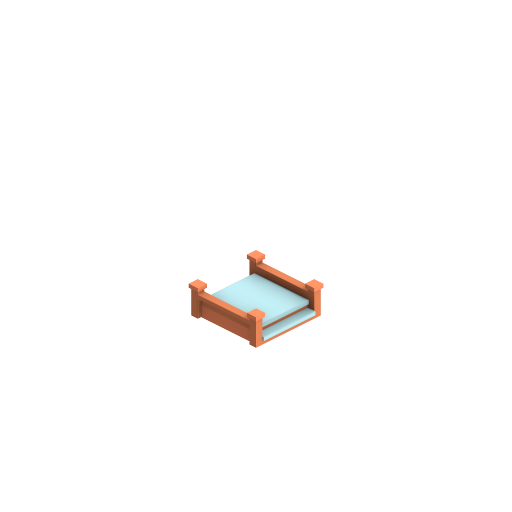
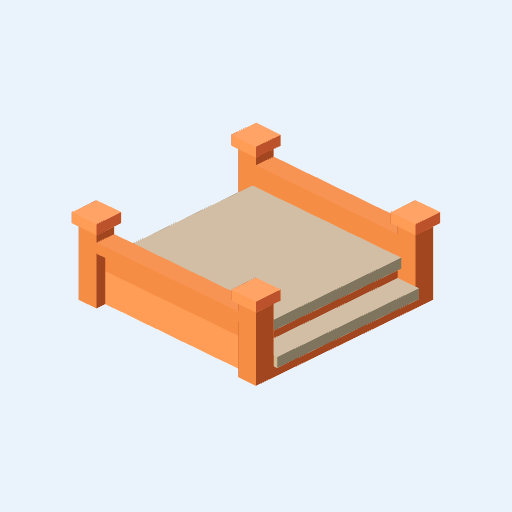
Las miniaturas las genera el motor: mismo encuadre, misma luz y la escala del derecho
Las que había NO eran renders de este proyecto: eran los previews que reparte
Kenney con cada kit. Tres kits, tres encuadres, SEIS tamaños distintos y
cuatro ni siquiera cuadradas (banco 62×82, maceta 28×85, mesa 113×95, silla
42×67), con el objeto ocupando del 3 % al 100 % del lienzo. De ahí salían dos
cosas mal:

  · la escala INVERTIDA: en la celda de 64 px la silla (0,45 m) se dibujaba
    40×64 y el árbol (5,5 m) 18×30, o sea que una silla se veía tres veces
    más grande que un árbol
  · el color no era el del mundo, porque el kit trae el turquesa original y
    el visor lo lleva a la familia del césped

Y las piezas generadas no tenían miniatura: salían como emoji. Con las diez
nuevas, iban a ser catorce.

`npm run miniaturas` las pinta con `?miniatura=<tipo>`: la MISMA escena, las
mismas luces, la misma rampa y el mismo ACES que el mundo, con cámara
ortográfica siempre desde el mismo sitio (45° de acimut, 60° de polar) y un
encuadre proporcional a la pieza pero con el margen encogiéndose — holgado
(×2,4) en lo pequeño y justo (×1,2) en lo grande. Así la casa se ve el doble
de grande que la silla en la celda (la escala se LEE) pero la silla sigue
siendo legible en 64 px, que es lo que se perdería con un encuadre
proporcional a secas: una flor de 0,8 m saldría como una mota.

41 miniaturas, UN solo tamaño (512×512). Antes: 27 en seis tamaños.

Y se va la marca `zoom` del catálogo, con su CSS: era un parche booleano
[…]

Changed region(s): [[0.125, 0.2188, 0.875, 0.75]]

diff --git a/src/lib/piezas.js b/src/lib/piezas.js
@@ -10,7 +10,13 @@
 //   c  color, índice en COLORES (solo cuenta en las piezas con `tinte`)
 //
 // Cada entrada:
-//   nombre, icono   lo que ve el jugador en la paleta (mini = miniatura PNG)
+//   nombre, icono   lo que ve el jugador en la paleta; el icono es el
+//                   respaldo si falta la miniatura
+//   mini            tiene miniatura en /miniaturas/<clave>.png. Las genera
+//                   `npm run miniaturas` con el MOTOR: misma luz, misma
+//                   rampa, mismo encuadre y mismo tamaño para todas, que es
+//                   lo que antes no pasaba (venían de tres kits distintos,
+//                   con seis tamaños y la escala invertida)
 //   glb             modelo en /modelos/<glb>.glb (Kenney, CC0); sin glb, la
 //                   pieza es geometría generada en el visor
 //   ancho           a cuánto se escala el modelo: su lado mayor EN PLANTA, en
@@ -18,7 +24,6 @@
 //                   porque es lo que se compara con el avatar (1,8 m). Un
 //                   modelo alto y estrecho necesita un `ancho` pequeño:
 //                   `node scripts/medidas.mjs` lista lo que mide cada pieza.
-//   zoom            la miniatura deja mucho aire: se recorta al centro
 //   tinte           se pinta del color elegido (solo piezas generadas)
 //   rejilla         se pega a una rejilla de 4 m (caminos, vallas, puentes)
 //   viento          se mece con el aire por encima de 1,5 m (copas)
@@ -31,61 +36,61 @@
 
 export const PIEZAS = {
   // casas (City Kit Suburban)
-  casa: { nombre: 'Casa', icono: '🏠', glb: 'casa-a', mini: true, ancho: 10, cat: 'casas', solido: 4.2 },
-  'casa-b': { nombre: 'Casa grande', icono: '🏡', glb: 'casa-b', mini: true, ancho: 10, cat: 'casas', solido: 4.2 },
-  'casa-c': { nombre: 'Chalet', icono: '🏘', glb: 'casa-c', mini: true, ancho: 10.5, cat: 'casas', solido: 4.4 },
-  'casa-d': { nombre: 'Casona', icono: '🏚', glb: 'casa-d', mini: true, ancho: 13, cat: 'casas', solido: 5.5 },
-  torre: { nombre: 'Torre', icono: '🗼', tinte: true, ancho: 5.6, cat: 'casas', solido: 2.6 },
-  tienda: { nombre: 'Tienda', icono: '⛺', glb: 'tienda', mini: true, zoom: true, ancho: 5, cat: 'casas', solido: 2.2 },
+  casa: { nombre: 'Casa', icono: '🏠', mini: true, glb: 'casa-a', mini: true, ancho: 10, cat: 'casas', solido: 4.2 },
+  'casa-b': { nombre: 'Casa grande', icono: '🏡', mini: true, glb: 'casa-b', mini: true, ancho: 10, cat: 'casas', solido: 4.2 },
+  'casa-c': { nombre: 'Chalet', icono: '🏘', mini: true, glb: 'casa-c', mini: true, ancho: 10.5, cat: 'casas', solido: 4.4 },
+  'casa-d': { nombre: 'Casona', icono: '🏚', mini: true, glb: 'casa-d', mini: true, ancho: 13, cat: 'casas', solido: 5.5 },
+  torre: { nombre: 'Torre', icono: '🗼', mini: true, tinte: true, ancho: 5.6, cat: 'casas', solido: 2.6 },
+  tienda: { nombre: 'Tienda', icono: '⛺', mini: true, glb: 'tienda', mini: true, ancho: 5, cat: 'casas', solido: 2.2 },
   // Geometría generada, 0 bytes de descarga. Las cuatro casas del City Kit
   // son el mismo edificio (bloque + tejado, 8-8,8 m de alto): lo que faltaba
   // era SILUETA, algo pequeño y algo bajo y largo. Y son tintables, que las
   // del atlas no pueden serlo.
-  caseta: { nombre: 'Caseta', icono: '🛖', tinte: true, ancho: 5.4, cat: 'casas', solido: 2.6 },
-  cobertizo: { nombre: 'Cobertizo', icono: '🏚', tinte: true, ancho: 8.4, cat: 'casas', solido: 3.6 },
+  caseta: { nombre: 'Caseta', icono: '🛖', mini: true, tinte: true, ancho: 5.4, cat: 'casas', solido: 2.6 },
+  cobertizo: { nombre: 'Cobertizo', icono: '🏚', mini: true, tinte: true, ancho: 8.4, cat: 'casas', solido: 3.6 },
   // árboles y plantas (Nature Kit)
-  arbol: { nombre: 'Árbol', icono: '🌳', glb: 'arbol', mini: true, zoom: true, ancho: 5.5, viento: true, cat: 'naturaleza', solido: 0.6 },
-  roble: { nombre: 'Roble', icono: '🌳', glb: 'roble', mini: true, zoom: true, ancho: 5, viento: true, cat: 'naturaleza', solido: 0.6 },
-  pino: { nombre: 'Pino', icono: '🌲', glb: 'pino', mini: true, zoom: true, ancho: 2.6, viento: true, cat: 'naturaleza', solido: 0.5 },
-  palmera: { nombre: 'Palmera', icono: '🌴', glb: 'palmera', mini: true, zoom: true, ancho: 6, viento: true, cat: 'naturaleza', solido: 0.5 },
-  arbusto: { nombre: 'Arbusto', icono: '🌿', glb: 'arbusto', mini: true, zoom: true, ancho: 2.4, viento: true, cat: 'naturaleza' },
-  flores: { nombre: 'Flores rojas', icono: '🌷', glb: 'flores-rojas', mini: true, zoom: true, ancho: 0.5, cat: 'naturaleza' }, // 0,8 m de alto
-  'flores-amarillas': { nombre: 'Flores amarillas', icono: '🌼', glb: 'flores-amarillas', mini: true, zoom: true, ancho: 0.9, cat: 'naturaleza' },
-  'flores-moradas': { nombre: 'Flores moradas', icono: '💐', glb: 'flores-moradas', mini: true, zoom: true, ancho: 0.7, cat: 'naturaleza' },
-  setas: { nombre: 'Setas', icono: '🍄', glb: 'setas', mini: true, zoom: true, ancho: 0.8, cat: 'naturaleza' },
-  calabaza: { nombre: 'Calabaza', icono: '🎃', glb: 'calabaza', mini: true, zoom: true, ancho: 0.7, cat: 'naturaleza' },
-  maceta: { nombre: 'Maceta', icono: '🪴', glb: 'maceta', mini: true, ancho: 0.4, cat: 'jardin', solido: 0.2 }, // 1,1 m con la planta
+  arbol: { nombre: 'Árbol', icono: '🌳', mini: true, glb: 'arbol', mini: true, ancho: 5.5, viento: true, cat: 'naturaleza', solido: 0.6 },
+  roble: { nombre: 'Roble', icono: '🌳', mini: true, glb: 'roble', mini: true, ancho: 5, viento: true, cat: 'naturaleza', solido: 0.6 },
+  pino: { nombre: 'Pino', icono: '🌲', mini: true, glb: 'pino', mini: true, ancho: 2.6, viento: true, cat: 'naturaleza', solido: 0.5 },
+  palmera: { nombre: 'Palmera', icono: '🌴', mini: true, glb: 'palmera', mini: true, ancho: 6, viento: true, cat: 'naturaleza', solido: 0.5 },
+  arbusto: { nombre: 'Arbusto', icono: '🌿', mini: true, glb: 'arbusto', mini: true, ancho: 2.4, viento: true, cat: 'naturaleza' },
+  flores: { nombre: 'Flores rojas', icono: '🌷', mini: true, glb: 'flores-rojas', mini: true, ancho: 0.5, cat: 'naturaleza' }, // 0,8 m de alto
+  'flores-amarillas': { nombre: 'Flores amarillas', icono: '🌼', mini: true, glb: 'flores-amarillas', mini: true, ancho: 0.9, cat: 'naturaleza' },
+  'flores-moradas': { nombre: 'Flores moradas', icono: '💐', mini: true, glb: 'flores-moradas', mini: true, ancho: 0.7, cat: 'naturaleza' },
+  setas: { nombre: 'Setas', icono: '🍄', mini: true, glb: 'setas', mini: true, ancho: 0.8, cat: 'naturaleza' },
+  calabaza: { nombre: 'Calabaza', icono: '🎃', mini: true, glb: 'calabaza', mini: true, ancho: 0.7, cat: 'naturaleza' },
+  maceta: { nombre: 'Maceta', icono: '🪴', mini: true, glb: 'maceta', mini: true, ancho: 0.4, cat: 'jardin', solido: 0.2 }, // 1,1 m con la planta
   // rocas y madera
-  roca: { nombre: 'Roca', icono: '🪨', glb: 'roca', mini: true, zoom: true, ancho: 3.4, cat: 'naturaleza', solido: 1.5 },
-  rocas: { nombre: 'Piedras', icono: '🪨', glb: 'rocas', mini: true, zoom: true, ancho: 1.6, cat: 'naturaleza', solido: 0.7 },
-  tronco: { nombre: 'Troncos', icono: '🪵', glb: 'tronco', mini: true, zoom: true, ancho: 2.2, cat: 'naturaleza', solido: 0.9 },
-  hoguera: { nombre: 'Hoguera', icono: '🔥', glb: 'hoguera', mini: true, zoom: true, ancho: 1.4, cat: 'jardin', solido: 0.7 },
+  roca: { nombre: 'Roca', icono: '🪨', mini: true, glb: 'roca', mini: true, ancho: 3.4, cat: 'naturaleza', solido: 1.5 },
+  rocas: { nombre: 'Piedras', icono: '🪨', mini: true, glb: 'rocas', mini: true, ancho: 1.6, cat: 'naturaleza', solido: 0.7 },
+  tronco: { nombre: 'Troncos', icono: '🪵', mini: true, glb: 'tronco', mini: true, ancho: 2.2, cat: 'naturaleza', solido: 0.9 },
+  hoguera: { nombre: 'Hoguera', icono: '🔥', mini: true, glb: 'hoguera', mini: true, ancho: 1.4, cat: 'jardin', solido: 0.7 },
   // suelo y cierres
-  camino: { nombre: 'Camino', icono: '🟫', glb: 'camino', mini: true, zoom: true, ancho: 4, rejilla: true, suelo: true, cat: 'suelo' },
-  puente: { nombre: 'Puente', icono: '🌉', glb: 'puente', mini: true, zoom: true, ancho: 6, rejilla: true, suelo: true, cat: 'suelo' },
-  valla: { nombre: 'Valla', icono: '🪵', glb: 'valla', mini: true, zoom: true, ancho: 4, rejilla: true, cat: 'suelo' },
+  camino: { nombre: 'Camino', icono: '🟫', mini: true, glb: 'camino', mini: true, ancho: 4, rejilla: true, suelo: true, cat: 'suelo' },
+  puente: { nombre: 'Puente', icono: '🌉', mini: true, glb: 'puente', mini: true, ancho: 6, rejilla: true, suelo: true, cat: 'suelo' },
+  valla: { nombre: 'Valla', icono: '🪵', mini: true, glb: 'valla', mini: true, ancho: 4, rejilla: true, cat: 'suelo' },
   // Suelo que se DIBUJA. Antes la categoría eran tres piezas y ninguna hacía
   // una forma: un patio de 12 × 12 eran 9 toques a la rejilla de 4 m y el 6 %
   // del presupuesto de la parcela. Con estas es 1 toque y 1 pieza. Son
   // geometría generada, así que TESELAN de verdad (una baldosa por cada 4 m)
   // en vez de estirar una textura, que es lo que pasaría escalando un modelo.
-  losa: { nombre: 'Losa', icono: '⬜', tinte: true, ancho: 4, rejilla: true, suelo: true, cat: 'suelo' },
-  patio: { nombre: 'Patio', icono: '🔲', tinte: true, ancho: 8, rejilla: true, suelo: true, cat: 'suelo' },
-  'patio-g': { nombre: 'Patio grande', icono: '⬛', tinte: true, ancho: 12, rejilla: true, suelo: true, cat: 'suelo' },
-  parterre: { nombre: 'Parterre', icono: '🟤', ancho: 4, rejilla: true, suelo: true, cat: 'suelo' },
-  cartel: { nombre: 'Cartel', icono: '🪧', glb: 'cartel', mini: true, zoom: true, ancho: 1.2, cat: 'jardin', solido: 0.3 }, // 1,7 m: se lee de pie
+  losa: { nombre: 'Losa', icono: '⬜', mini: true, tinte: true, ancho: 4, rejilla: true, suelo: true, cat: 'suelo' },
+  patio: { nombre: 'Patio', icono: '🔲', mini: true, tinte: true, ancho: 8, rejilla: true, suelo: true, cat: 'suelo' },
+  'patio-g': { nombre: 'Patio grande', icono: '⬛', mini: true, tinte: true, ancho: 12, rejilla: true, suelo: true, cat: 'suelo' },
+  parterre: { nombre: 'Parterre', icono: '🟤', mini: true, ancho: 4, rejilla: true, suelo: true, cat: 'suelo' },
+  cartel: { nombre: 'Cartel', icono: '🪧', mini: true, glb: 'cartel', mini: true, ancho: 1.2, cat: 'jardin', solido: 0.3 }, // 1,7 m: se lee de pie
   // mobiliario (Furniture Kit) y piezas generadas
-  banco: { nombre: 'Banco', icono: '🪑', glb: 'banco', mini: true, ancho: 0.95, cat: 'jardin', solido: 0.5 }, // 1,1 m con respaldo
-  mesa: { nombre: 'Mesa', icono: '🍽', glb: 'mesa', mini: true, ancho: 1.6, cat: 'jardin', solido: 0.8 }, // 0,7 m: ya estaba bien
-  silla: { nombre: 'Silla', icono: '💺', glb: 'silla', mini: true, ancho: 0.45, cat: 'jardin' }, // 1,05 m de respaldo
-  farola: { nombre: 'Farola', icono: '💡', ancho: 1.2, cat: 'jardin', solido: 0.3 },
-  fuente: { nombre: 'Fuente', icono: '⛲', ancho: 6.4, cat: 'jardin', solido: 3.4 },
-  bandera: { nombre: 'Bandera', icono: '🚩', tinte: true, ancho: 2.6, cat: 'jardin' },
+  banco: { nombre: 'Banco', icono: '🪑', mini: true, glb: 'banco', mini: true, ancho: 0.95, cat: 'jardin', solido: 0.5 }, // 1,1 m con respaldo
+  mesa: { nombre: 'Mesa', icono: '🍽', mini: true, glb: 'mesa', mini: true, ancho: 1.6, cat: 'jardin', solido: 0.8 }, // 0,7 m: ya estaba bien
+  silla: { nombre: 'Silla', icono: '💺', mini: true, glb: 'silla', mini: true, ancho: 0.45, cat: 'jardin' }, // 1,05 m de respaldo
+  farola: { nombre: 'Farola', icono: '💡', mini: true, ancho: 1.2, cat: 'jardin', solido: 0.3 },
+  fuente: { nombre: 'Fuente', icono: '⛲', mini: true, ancho: 6.4, cat: 'jardin', solido: 3.4 },
+  bandera: { nombre: 'Bandera', icono: '🚩', mini: true, tinte: true, ancho: 2.6, cat: 'jardin' },
   // El jardín de estar: nada de esto pedía descargar un modelo nuevo.
-  tendedero: { nombre: 'Tendedero', icono: '🧺', tinte: true, ancho: 3.5, cat: 'jardin', solido: 0.3 },
-  arenero: { nombre: 'Arenero', icono: '🏖', ancho: 3, suelo: true, cat: 'jardin' },
-  buzon: { nombre: 'Buzón', icono: '📮', tinte: true, ancho: 0.7, cat: 'jardin', solido: 0.2 },
-  barbacoa: { nombre: 'Barbacoa', icono: '🍖', ancho: 1.2, cat: 'jardin', solido: 0.6 },
+  tendedero: { nombre: 'Tendedero', icono: '🧺', mini: true, tinte: true, ancho: 3.5, cat: 'jardin', solido: 0.3 },
+  arenero: { nombre: 'Arenero', icono: '🏖', mini: true, ancho: 3, suelo: true, cat: 'jardin' },
+  buzon: { nombre: 'Buzón', icono: '📮', mini: true, tinte: true, ancho: 0.7, cat: 'jardin', solido: 0.2 },
+  barbacoa: { nombre: 'Barbacoa', icono: '🍖', mini: true, ancho: 1.2, cat: 'jardin', solido: 0.6 },
 };
 
 // Pestañas de la paleta, en su orden

diff --git a/src/components/Mundo.js b/src/components/Mundo.js
@@ -780,6 +780,16 @@ export default function Mundo() {
     // (`creaInstancias`), así que lo que se ve aquí es exactamente lo que se
     // ve en el mundo: mismas luces, misma rampa, mismo ACES.
     const MUESTRARIO = params.get('muestrario') === '1';
+    // `?miniatura=<tipo>`: UNA pieza, cámara ortográfica fija y fondo liso,
+    // para generar las miniaturas de la paleta con el MOTOR DE VERDAD. Las de
+    // ahora son los previews que reparte Kenney: tres kits, tres encuadres,
+    // seis tamaños distintos (y cuatro no son ni cuadradas), con el objeto
+    // ocupando del 3 % al 100 % del lienzo. El resultado es que la escala
+    // sale INVERTIDA —una silla se dibuja tres veces más grande que un
+    // árbol— y el color no es el del mundo. La marca `zoom` del catálogo es
+    // un parche booleano contra una ocupación que va del 3 % al 100 %, así
+    // que no arregla nada.
+    const MINIATURA = params.get('miniatura');
     const MUESTRA_PASO = 15; // la casona mide 13 m: con menos, se pisan
     const MUESTRA_COLS = 7;
     const jugador = perfil();
@@ -1567,6 +1577,26 @@ export default function Mundo() {
     // el monte) ni en `origen` (no se puede tocar ni seleccionar: no es de
     // nadie), y la comprobación de `origen` ya iba con `?.`, así que las
     // instancias sin dueño simplemente no responden al rayo.
+    // Una sola pieza en el origen, para la miniatura.
+    const cajaMini = new THREE.Box3();
+    function pintaMiniatura(cont) {
+      const par = mallas[MINIATURA];
+      if (!par) return;
+      posI.set(0, 0, 0);
+      rotI.setFromAxisAngle(ejeY, 0);
+      escPieza.set(1, 1, 1);
+      mtx.compose(posI, rotI, escPieza);
+      cajaMini.makeEmpty();
+      for (const q of par.partes) {
+        q.mesh.setMatrixAt(0, mtx);
+        if (q.tinte) q.mesh.setColorAt(0, coloresTinte[0]);
+        q.geo = q.geo || q.mesh.geometry;
+        q.mesh.geometry.computeBoundingBox();
+        cajaMini.union(q.mesh.geometry.boundingBox);
+      }
+      cont[MINIATURA] = 1;
+    }
+
     // La hoja de contactos del catálogo: cada pieza en su celda, ordenadas
     // por categoría y en el orden del catálogo, todas con giro 0 y escala 1
     // para que se comparen de verdad.
@@ -1598,7 +1628,7 @@ export default function Mundo() {
 
     let campoCentro = null;
     function siembraCampo(cont) {
-      if (MUESTRARIO) return;
+      if (MUESTRARIO || MINIATURA) return;
       const cx = Math.round(yo.x / CELDA_CAMPO);
       const cy = Math.round(yo.y / CELDA_CAMPO);
       campoCentro = { cx, cy };
@@ -1687,7 +1717,7 @@ export default function Mundo() {
           }
           marcos.setColorAt(nMarcos++, col);
         }
-        for (const z of MUESTRARIO ? [] : pc.d || []) {
+        for (const z of MUESTRARIO || MINIATURA ? [] : pc.d || []) {
           const par = mallas[z.t];
           if (!par) continue;
           const wx = bx + z.x;
@@ -1731,7 +1761,8 @@ export default function Mundo() {
       }
       // ANTES del bucle que fija los `count`: si no, las instancias del campo
       // se escriben pero no se dibujan.
-      if (MUESTRARIO) pintaMuestrario(cont);
+      if (MINIATURA) pintaMiniatura(cont);
+      else if (MUESTRARIO) pintaMuestrario(cont);
       else siembraCampo(cont);
       for (const t in mallas) {
         for (const p of mallas[t].partes) {
@@ -1887,6 +1918,30 @@ export default function Mundo() {
       return { grupo, cuerpo, pi, pd, bi, bd, mancha };
     }
     const avatar = creaFigura(jugador.color, jugador.pelo, jugador.piel);
+    // --- modo miniatura: fuera todo menos la pieza ---
+    let camMini = null;
+    if (MINIATURA) {
+      suelo.visible = false;
+      agua.visible = false;
+      hierba.visible = false;
+      cielo.visible = false;
+      pajaros.visible = false;
+      marcos.visible = false;
+      plazas.visible = false;
+      marcoObra.visible = false;
+      for (const nb of nubes) nb.m.visible = false;
+      avatar.grupo.visible = false;
+      scene.fog = null;
+      scene.background = new THREE.Color(0xeaf3fb);
+      document.body.classList.add('miniatura');
+      // Ortográfica y SIEMPRE desde el mismo sitio: es lo que hace que dos
+      // miniaturas se puedan comparar. 45° de acimut y 60° de polar, que es
+      // el tres cuartos de toda la vida.
+      camMini = new THREE.OrthographicCamera(-1, 1, 1, -1, 0.1, 200);
+      const dir = new THREE.Vector3(Math.cos(Math.PI / 4), Math.tan(Math.PI / 6), Math.sin(Math.PI / 4)).normalize();
+      camMini.position.copy(dir).multiplyScalar(60);
+      camMini.lookAt(0, 0, 0);
+    }
     scene.add(avatar.grupo);
     sigueElSol(0, 0, 0);
     // posición en metros del mundo (y hacia el norte); rumbo en radianes
@@ -3178,6 +3233,37 @@ export default function Mundo() {
 
       centraMapa(dt, yo.andando);
       controls.update();
+      if (camMini) {
+        // El encuadre sale del tamaño REAL de la pieza, con una ley
+        // sublineal: si fuera proporcional, una flor de 0,8 m saldría como
+        // una mota y la torre de 13,5 m llenaría el cuadro; y si todas
+        // ocuparan lo mismo, se pierde la escala, que es justo lo que pasa
+        // hoy. Así una casa se ve más grande que una silla, pero la silla
+        // se sigue viendo.
+        const tam = new THREE.Vector3();
+        cajaMini.getSize(tam);
+        // El encuadre es PROPORCIONAL a la pieza pero con el margen
+        // encogiéndose: una pieza pequeña se enmarca holgada (×2,4) y una
+        // grande, justa (×1,2). Así la casa se ve el doble de grande que la
+        // silla en la celda —la escala se lee— pero la silla sigue siendo
+        // legible en 64 px, que es lo que se perdía si el encuadre fuera
+        // proporcional a secas (la flor de 0,8 m saldría como una mota).
+        const alto = Math.max(tam.y, 0.2);
+        const grande = Math.max(alto, Math.hypot(tam.x, tam.z));
+        const margen = 2.9 * Math.pow(grande / 0.5, -0.26);
+        const h = (grande * Math.max(1.15, margen)) / 2;
+        camMini.left = -h;
+        camMini.right = h;
+        camMini.top = h;
+        camMini.bottom = -h;
+        // el centro de la pieza, no su base
+        const cen = new THREE.Vector3();
+        cajaMini.getCenter(cen);
+        camMini.lookAt(cen.x, cen.y, cen.z);
+        camMini.updateProjectionMatrix();
+        renderer.render(scene, camMini);
+        return;
+      }
       renderer.render(scene, camera);
       pintaNombres();
 
@@ -3648,7 +3734,7 @@ export default function Mundo() {
             <div className="panel-cab">
               <button className="actual" onClick={() => setPanelAbierto((v) => !v)} aria-expanded={panelAbierto} aria-label="Elegir pieza">
                 {PIEZAS[herr]?.mini ? (
-                  <i className={'mini' + (PIEZAS[herr].zoom ? ' zoom' : '')}>
+                  <i className="mini">
                     <img src={'/miniaturas/' + herr + '.png'} alt="" />
                   </i>
                 ) : (
@@ -3675,7 +3761,7 @@ export default function Mundo() {
                   .map(([t, d]) => (
                     <button key={t} className={'pieza' + (herr === t ? ' on' : '')} onClick={() => eligeHerr(t)} aria-label={d.nombre} aria-pressed={herr === t} title={d.nombre}>
                       {d.mini ? (
-                        <i className={'mini' + (d.zoom ? ' zoom' : '')}>
+                        <i className="mini">
                           <img src={'/miniaturas/' + t + '.png'} alt="" />
                         </i>
                       ) : (

diff --git a/src/app/globals.css b/src/app/globals.css
@@ -490,10 +490,8 @@ body {
 .mini { width: 64px; height: 64px; overflow: hidden; display: block; border-radius: 10px; }
 .mini img { width: 64px; height: 64px; object-fit: contain; display: block; }
 /* los previews del Nature Kit traen mucho aire: se amplían al centro */
-.mini.zoom img { width: 128px; height: 128px; margin: -32px; }
 .panel-cab .mini { width: 40px; height: 40px; border-radius: 8px; }
 .panel-cab .mini img { width: 40px; height: 40px; }
-.panel-cab .mini.zoom img { width: 80px; height: 80px; margin: -20px; }
 .emoji { font-size: 40px; line-height: 64px; height: 64px; }
 .panel-cab .emoji { font-size: 26px; line-height: 40px; height: 40px; }
 .panel-pie {
@@ -537,7 +535,6 @@ body {
   .rejilla { grid-template-columns: repeat(4, 1fr); }
   .mini { width: 56px; height: 56px; }
   .mini img { width: 56px; height: 56px; }
-  .mini.zoom img { width: 112px; height: 112px; margin: -28px; }
   .emoji { font-size: 34px; line-height: 56px; height: 56px; }
   .sel-bar {
     left: 8px;
@@ -677,4 +674,18 @@ body {
   background: var(--card);
   box-shadow: 0 6px 18px rgba(43, 52, 64, 0.25);
   pointer-events: none;
+}
+
+/* Modo miniatura (?miniatura=<tipo>): solo la pieza, sin nada de interfaz.
+   Lo usa scripts/miniaturas.mjs para generar public/miniaturas/*.png con el
+   motor de verdad, para que la luz y el color sean los del mundo. */
+body.miniatura .ui,
+body.miniatura .cabecera,
+body.miniatura .paleta,
+body.miniatura .sel-bar,
+body.miniatura .chat,
+body.miniatura .joy,
+body.miniatura #rotulos,
+body.miniatura #vineta {
+  display: none !important;
 }
